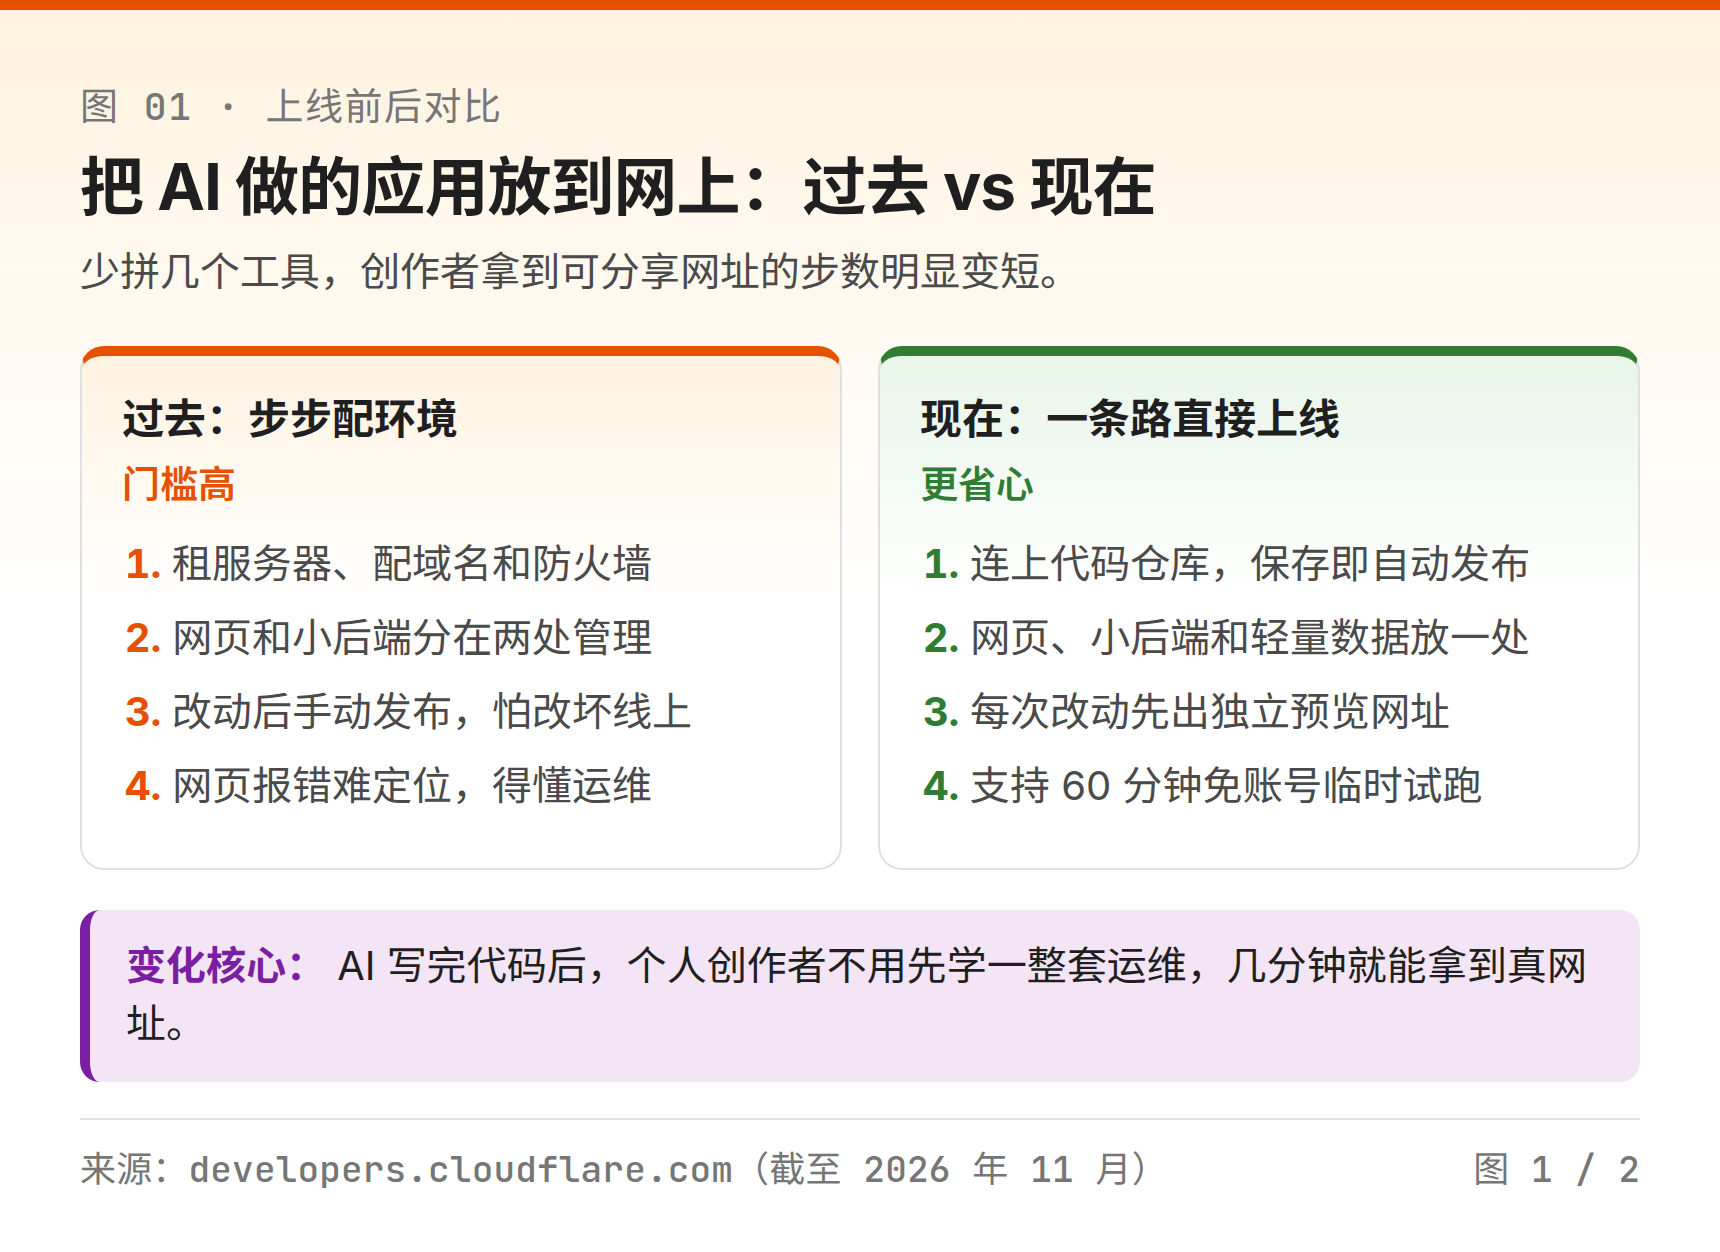
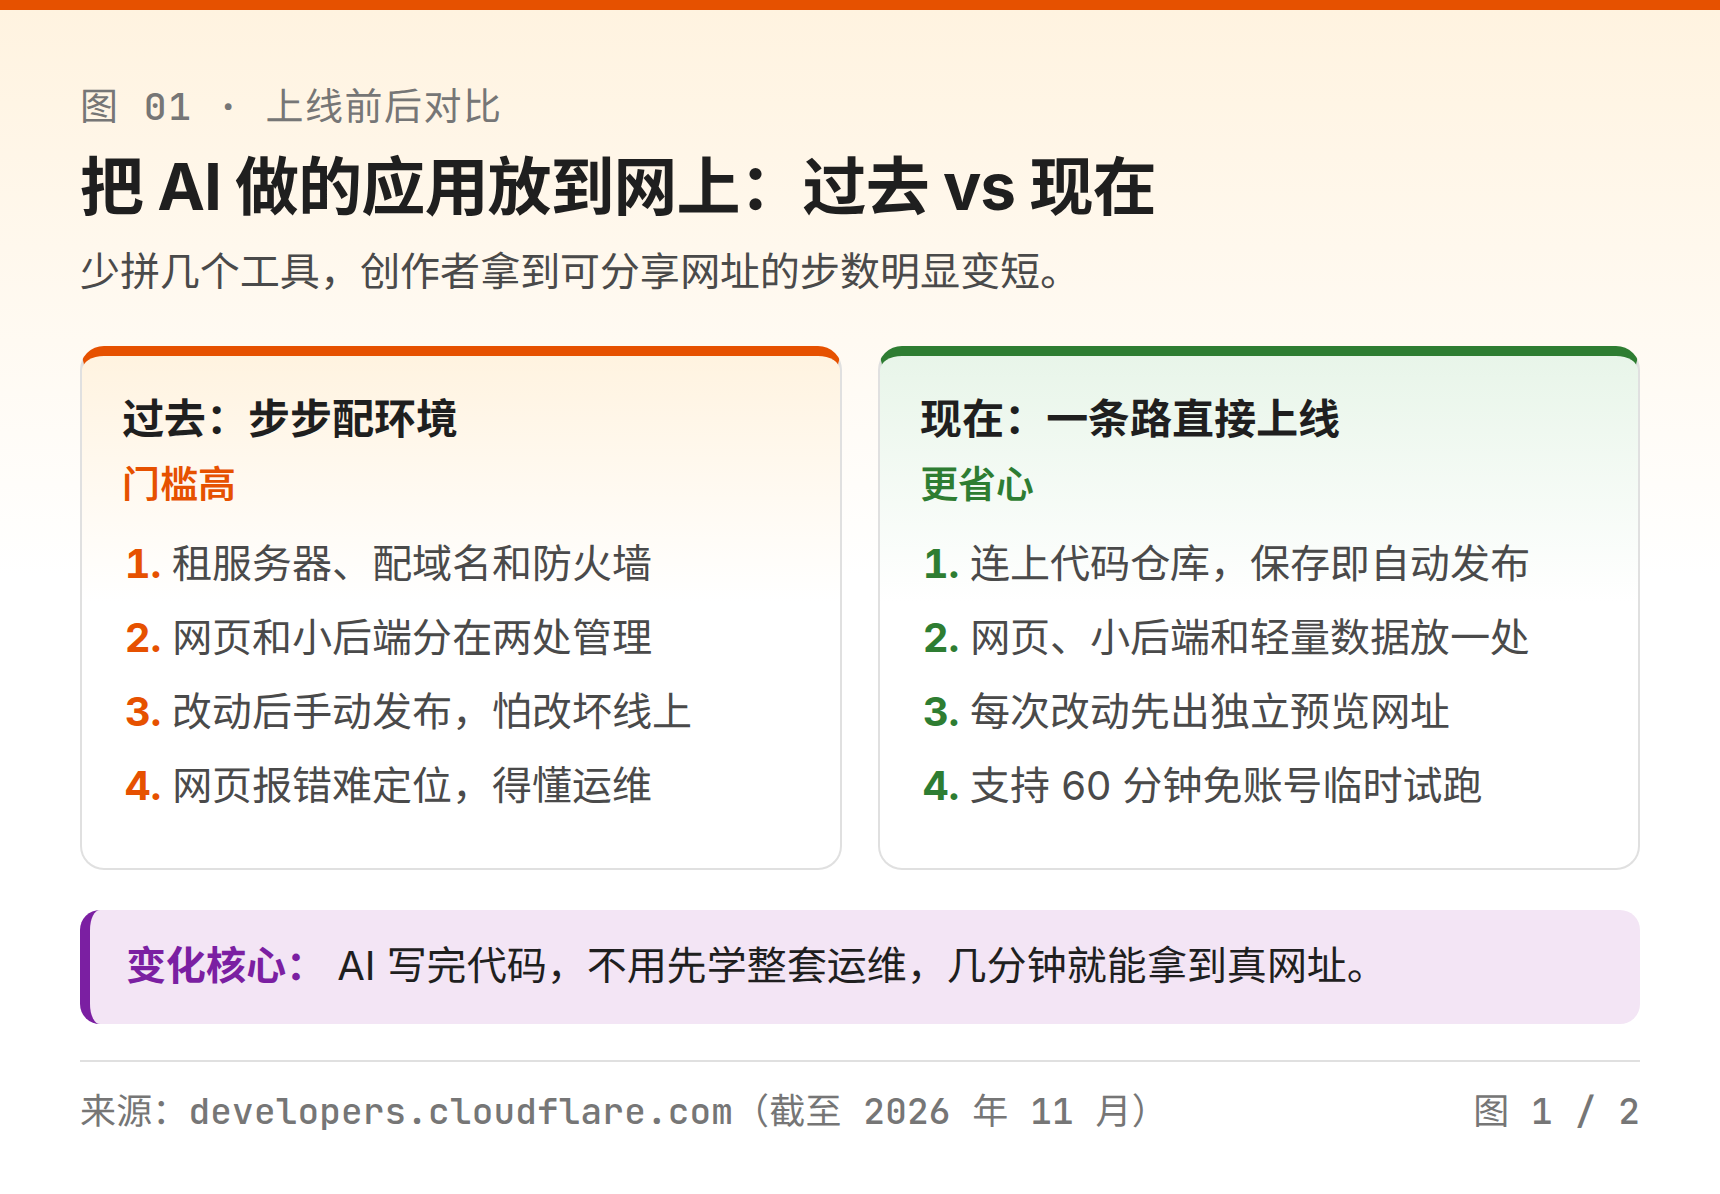
Polish Cloudflare article and figure copy

diff --git a/drafts/2026-11-28-ai-and-cloudflare-again/figures/figure-2-fit-vs-stuck.zh.html b/drafts/2026-11-28-ai-and-cloudflare-again/figures/figure-2-fit-vs-stuck.zh.html
@@ -5,4 +5,4 @@
 h1{font-size:32px;line-height:1.25;margin:8px 0 0;font-weight:700;letter-spacing:-.015em}.subtitle{font-size:20px;line-height:1.45;color:var(--soft);margin-top:8px}.cards{display:grid;grid-template-columns:1fr 1fr;gap:18px;margin-top:22px}.card{border:1.5px solid var(--line);border-radius:12px;background:#fff;padding:18px 20px}.before{border-top:5px solid var(--warn);background:linear-gradient(180deg,var(--warnf) 0,#fff 48%)}.now,.smooth{border-top:5px solid var(--ok);background:linear-gradient(180deg,var(--okf) 0,#fff 48%)}.stuck{border-top:5px solid var(--err);background:linear-gradient(180deg,var(--errf) 0,#fff 48%)}
 .cardhead{display:flex;flex-direction:column;align-items:flex-start;gap:4px}.cardhead b{font-size:21px;line-height:1.3}.tag{font-size:19px;font-weight:600;white-space:nowrap;color:var(--warn)}.now .tag,.smooth .tag{color:var(--ok)}.stuck .tag{color:var(--err)}.card ol,.card ul{padding-left:25px;margin:14px 0 0}.card li{font-size:20px;line-height:1.45;color:var(--soft);margin:0 0 8px}.before li::marker{color:var(--warn);font-weight:700}.now li::marker{color:var(--ok);font-weight:700}.smooth li::marker{color:var(--ok)}.stuck li::marker{color:var(--err)}
 .take{margin-top:20px;padding:14px 18px;border-radius:10px;background:var(--hif);border-left:5px solid var(--hi);font-size:20px;line-height:1.45}.fit .take{background:var(--infof);border-left-color:var(--info)}.take b{color:var(--hi)}.fit .take b{color:var(--info)}.footer{margin-top:18px;border-top:1px solid var(--line);padding-top:11px;display:flex;justify-content:space-between;gap:12px;font:18px 'JetBrains Mono',monospace;color:var(--faint);letter-spacing:.005em}
-</style></head><body><main class="canvas fit"><div class="figno">图 02 · 适用场景与边界</div><h1>哪些事最顺手，哪里依然会卡壳？</h1><div class="subtitle">看清 0 到 5 美元档能解决什么，以及什么情况下不如直接换方案。</div><section class="cards"><article class="card smooth"><div class="cardhead"><b>顺手区</b><span class="tag">0 到 5 美元/月</span></div><ul><li>个人网站、作品集、轻量小工具</li><li>静态页面与文件下载无额外流量费</li><li>5 美元档打包千万级请求与小数据库</li><li>可设月度支出上限，防意外刷爆账单</li></ul></article><article class="card stuck"><div class="cardhead"><b>卡壳区</b><span class="tag">提前避坑</span></div><ul><li>绑自有域名、改域名解析仍易配错</li><li>深度绑定自带数据功能后，迁移成本高</li><li>重型数据库或常规 Linux 软件吃不消</li><li>中国大陆直连受限，合规方案仅限企业版</li></ul></article></section><div class="take"><b>一句话建议：</b> 做轻量海外应用和个人工具很划算；核心用户在中国大陆或要做重型后端，别硬上。</div><footer class="footer"><span>来源：Cloudflare 官方定价与状态页（截至 2026 年 11 月）</span><span>图 2 / 2</span></footer></main></body></html>
+</style></head><body><main class="canvas fit"><div class="figno">图 02 · 适用场景与边界</div><h1>哪些事最顺手，哪里依然会卡壳？</h1><div class="subtitle">看清 0 到 5 美元档能解决什么，以及什么情况下不如直接换方案。</div><section class="cards"><article class="card smooth"><div class="cardhead"><b>顺手区</b><span class="tag">0 到 5 美元/月</span></div><ul><li>个人网站、作品集、轻量小工具</li><li>静态页面与文件下载无额外流量费</li><li>5 美元档打包千万请求与小数据库</li><li>可设月度支出上限，防刷爆账单</li></ul></article><article class="card stuck"><div class="cardhead"><b>卡壳区</b><span class="tag">提前避坑</span></div><ul><li>绑自有域名、改域名解析仍易配错</li><li>深度绑定自带数据功能后，迁移成本高</li><li>重型数据库或常规 Linux 软件吃不消</li><li>中国大陆直连受限，合规方案仅限企业版</li></ul></article></section><div class="take"><b>一句话建议：</b> 做轻量海外应用和个人工具很划算；核心用户在中国大陆或要做重型后端，别硬上。</div><footer class="footer"><span>来源：Cloudflare 官方定价与状态页（截至 2026 年 11 月）</span><span>图 2 / 2</span></footer></main></body></html>

diff --git a/drafts/2026-11-28-ai-and-cloudflare-again/figures/figure-1-then-vs-now.zh.html b/drafts/2026-11-28-ai-and-cloudflare-again/figures/figure-1-then-vs-now.zh.html
@@ -5,4 +5,4 @@
 h1{font-size:32px;line-height:1.25;margin:8px 0 0;font-weight:700;letter-spacing:-.015em}.subtitle{font-size:20px;line-height:1.45;color:var(--soft);margin-top:8px}.cards{display:grid;grid-template-columns:1fr 1fr;gap:18px;margin-top:22px}.card{border:1.5px solid var(--line);border-radius:12px;background:#fff;padding:18px 20px}.before{border-top:5px solid var(--warn);background:linear-gradient(180deg,var(--warnf) 0,#fff 48%)}.now,.smooth{border-top:5px solid var(--ok);background:linear-gradient(180deg,var(--okf) 0,#fff 48%)}.stuck{border-top:5px solid var(--err);background:linear-gradient(180deg,var(--errf) 0,#fff 48%)}
 .cardhead{display:flex;flex-direction:column;align-items:flex-start;gap:4px}.cardhead b{font-size:21px;line-height:1.3}.tag{font-size:19px;font-weight:600;white-space:nowrap;color:var(--warn)}.now .tag,.smooth .tag{color:var(--ok)}.stuck .tag{color:var(--err)}.card ol,.card ul{padding-left:25px;margin:14px 0 0}.card li{font-size:20px;line-height:1.45;color:var(--soft);margin:0 0 8px}.before li::marker{color:var(--warn);font-weight:700}.now li::marker{color:var(--ok);font-weight:700}.smooth li::marker{color:var(--ok)}.stuck li::marker{color:var(--err)}
 .take{margin-top:20px;padding:14px 18px;border-radius:10px;background:var(--hif);border-left:5px solid var(--hi);font-size:20px;line-height:1.45}.fit .take{background:var(--infof);border-left-color:var(--info)}.take b{color:var(--hi)}.fit .take b{color:var(--info)}.footer{margin-top:18px;border-top:1px solid var(--line);padding-top:11px;display:flex;justify-content:space-between;gap:12px;font:18px 'JetBrains Mono',monospace;color:var(--faint);letter-spacing:.005em}
-</style></head><body><main class="canvas before"><div class="figno">图 01 · 上线前后对比</div><h1>把 AI 做的应用放到网上：过去 vs 现在</h1><div class="subtitle">少拼几个工具，创作者拿到可分享网址的步数明显变短。</div><section class="cards"><article class="card before"><div class="cardhead"><b>过去：步步配环境</b><span class="tag">门槛高</span></div><ol><li>租服务器、配域名和防火墙</li><li>网页和小后端分在两处管理</li><li>改动后手动发布，怕改坏线上</li><li>网页报错难定位，得懂运维</li></ol></article><article class="card now"><div class="cardhead"><b>现在：一条路直接上线</b><span class="tag">更省心</span></div><ol><li>连上代码仓库，保存即自动发布</li><li>网页、小后端和轻量数据放一处</li><li>每次改动先出独立预览网址</li><li>支持 60 分钟免账号临时试跑</li></ol></article></section><div class="take"><b>变化核心：</b> AI 写完代码后，个人创作者不用先学一整套运维，几分钟就能拿到真网址。</div><footer class="footer"><span>来源：developers.cloudflare.com（截至 2026 年 11 月）</span><span>图 1 / 2</span></footer></main></body></html>
+</style></head><body><main class="canvas before"><div class="figno">图 01 · 上线前后对比</div><h1>把 AI 做的应用放到网上：过去 vs 现在</h1><div class="subtitle">少拼几个工具，创作者拿到可分享网址的步数明显变短。</div><section class="cards"><article class="card before"><div class="cardhead"><b>过去：步步配环境</b><span class="tag">门槛高</span></div><ol><li>租服务器、配域名和防火墙</li><li>网页和小后端分在两处管理</li><li>改动后手动发布，怕改坏线上</li><li>网页报错难定位，得懂运维</li></ol></article><article class="card now"><div class="cardhead"><b>现在：一条路直接上线</b><span class="tag">更省心</span></div><ol><li>连上代码仓库，保存即自动发布</li><li>网页、小后端和轻量数据放一处</li><li>每次改动先出独立预览网址</li><li>支持 60 分钟免账号临时试跑</li></ol></article></section><div class="take"><b>变化核心：</b> AI 写完代码，不用先学整套运维，几分钟就能拿到真网址。</div><footer class="footer"><span>来源：developers.cloudflare.com（截至 2026 年 11 月）</span><span>图 1 / 2</span></footer></main></body></html>
